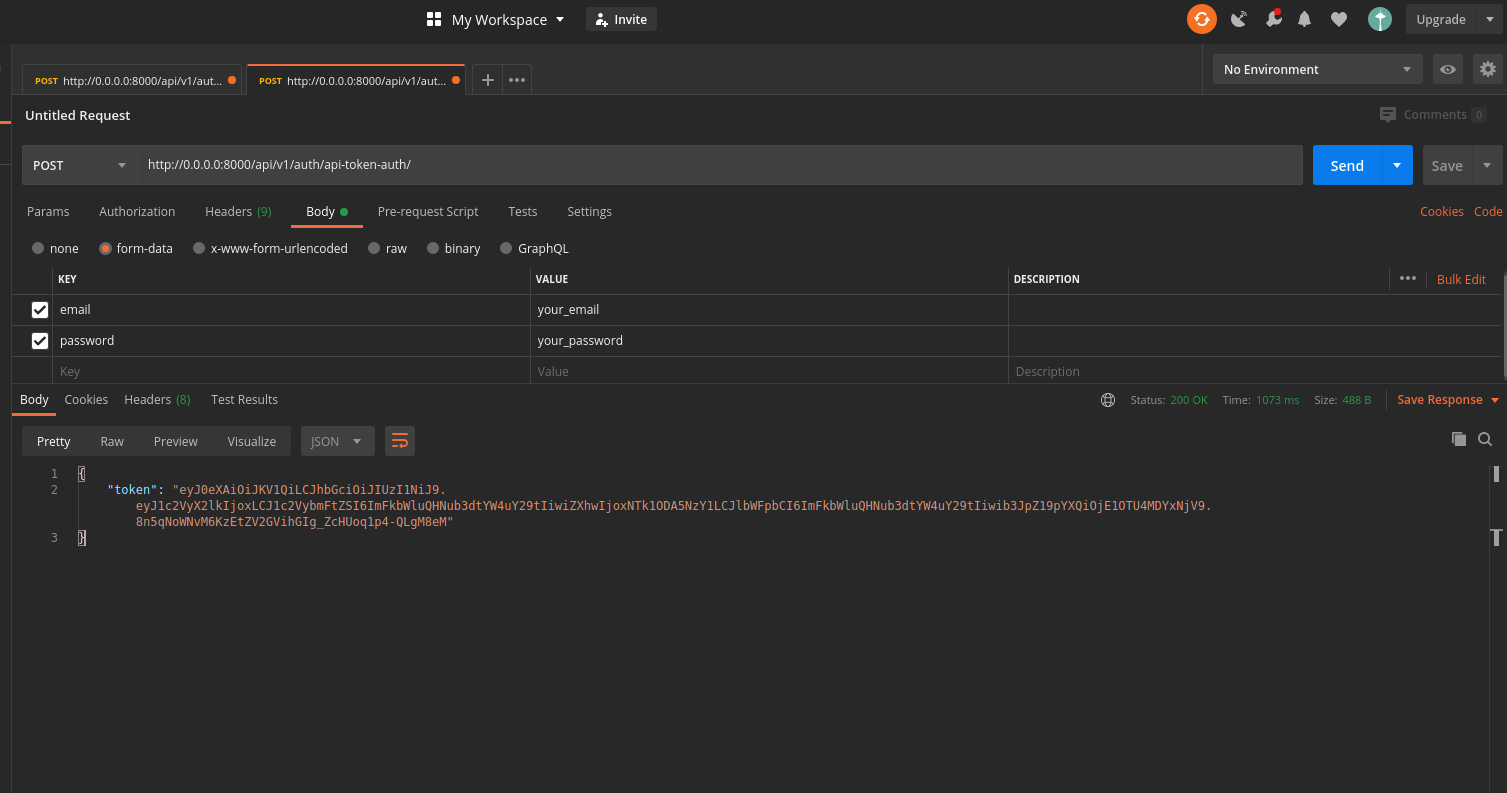
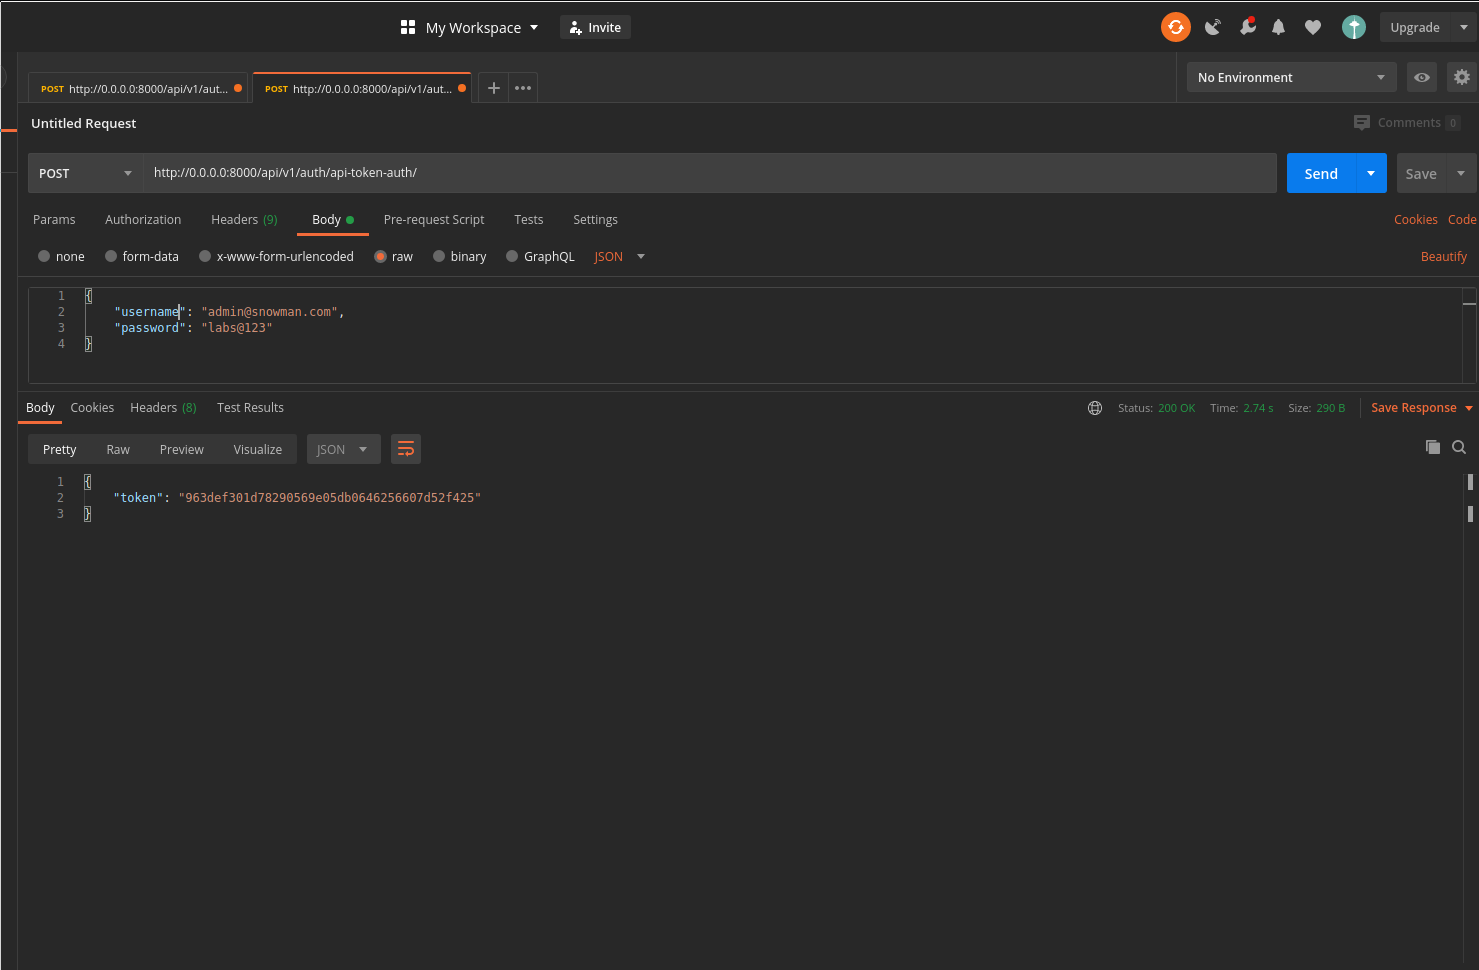
Updated Readme.md

diff --git a/README.md b/README.md
@@ -100,18 +100,15 @@ Url:
 http://0.0.0.0:8000/api/v1/auth/api-token-auth/
 ```
 
-To update the token:
-
-```console
-
-http://0.0.0.0:8000/api/v1/auth/api-token-refresh/
-```
-
 Enter email and password created:
 
-```console
- - email
- - password
+Obs.: I'm using a custom user, so enter your email in the username field.
+
+```json
+{
+  "username": "admin@snowman.com",
+  "password": "labs@123"
+}
 ```
 
 Method HTTP:
@@ -133,7 +130,7 @@ Key:
 Authorization
 
 Value:
-JWT + key genered
+Token + key genered
 ```
 
 To access list of available urls:
@@ -156,7 +153,7 @@ http://0.0.0.0:8000/api/v1/favorites/
 Run the tests:
 
 ```console
-docker-compose run web python manage.py pytest touristspots --cov=touristspots
+docker-compose run web pytest touristspots --cov=touristspots
 ```
 
 Screenshots admin:
